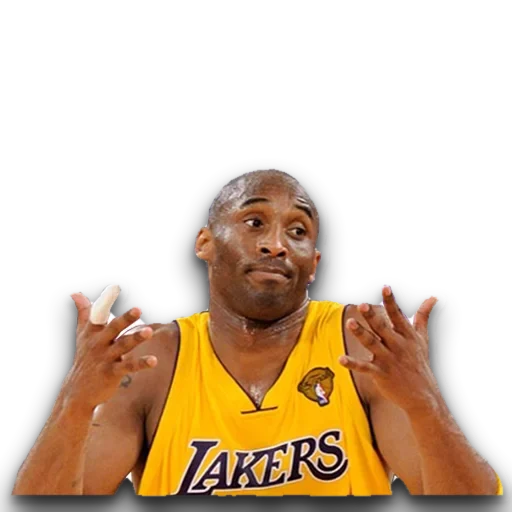
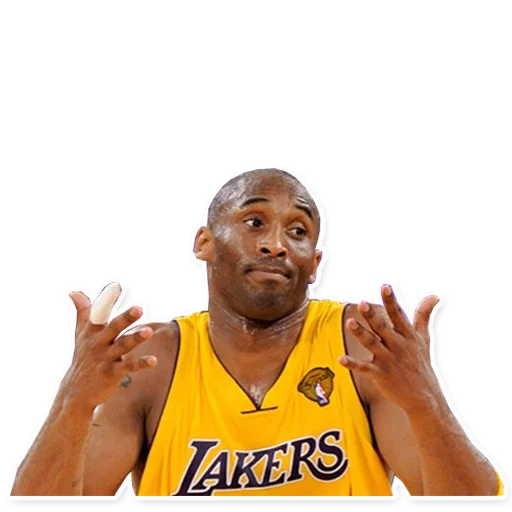
Стикеры-мемы рядом с плашками — оригиналы с белой обводкой; стикер ЗАПОМНИ прилетает через 700 мс после таблички; x₂ = c/a в рамке

diff --git a/components/geometry/WalkthroughLog.tsx b/components/geometry/WalkthroughLog.tsx
@@ -1013,6 +1013,9 @@ export const RememberPlate = ({ title = 'ЗАПОМНИ!', children, sticker: fi
     }, [fixedSticker])
     // sticker='none' — места под стикер нет картинки (пока родитель её выбирает)
     const shown = fixedSticker === 'none' ? null : fixedSticker || sticker
+    // Сначала рисуется табличка, и только через 700 мс справа прилетает стикер (внимание идёт по очереди).
+    const [stickerOn, setStickerOn] = useState(false)
+    useEffect(() => { const t = setTimeout(() => setStickerOn(true), 700); return () => clearTimeout(t) }, [])
     // Золотая рамка (не заливка): заголовок сверху, тело — внутри той же рамки под разделителем.
     return (
         <div className="w-full flex items-center gap-3">
@@ -1029,9 +1032,9 @@ export const RememberPlate = ({ title = 'ЗАПОМНИ!', children, sticker: fi
                 )}
             </div>
             <div className="w-24 h-24 md:w-28 md:h-28 shrink-0 flex items-center justify-center" style={{ transform: (flipSticker ?? autoFlip) ? 'scaleX(-1)' : undefined }}>
-                {shown && (
+                {shown && stickerOn && (
                     <motion.img key={shown} src={shown} alt="" draggable={false}
-                        initial={{ scale: 0.4, opacity: 0, rotate: -12 }} animate={{ scale: 1, opacity: 1, rotate: 0 }}
+                        initial={{ x: 90, scale: 0.4, opacity: 0, rotate: -12 }} animate={{ x: 0, scale: 1, opacity: 1, rotate: 0 }}
                         transition={{ type: 'spring', stiffness: 320, damping: 14 }}
                         className="max-w-full max-h-full object-contain pointer-events-none select-none" />
                 )}

diff --git a/app/t-lesson/[t_lessonId]/type-vietawalk.tsx b/app/t-lesson/[t_lessonId]/type-vietawalk.tsx
@@ -1344,7 +1344,13 @@ const CheckRootScene = ({ spec, onSettled }: SceneProps & { spec: CheckSpec }) =
                         <TypedBig small onDone={next(3)} readMs={1000}
                             parts={[{ text: 'ЕСЛИ ' }, { text: 'x₁ = 1', color: ROOT_COLOR }, { text: ' подойдёт, то' }]} />
                     )}
-                    {phase >= 3 && <BigLine><X2Formula /></BigLine>}
+                    {phase >= 3 && (
+                        <BigLine>
+                            <span className="px-4 py-2 rounded-2xl" style={{ border: '2px solid rgba(232, 182, 54, 0.85)', backgroundColor: 'rgba(232, 182, 54, 0.08)' }}>
+                                <X2Formula />
+                            </span>
+                        </BigLine>
+                    )}
                     {phase >= 3 && <PauseThen ms={1000} onDone={next(4)} />}
                     {phase >= 4 && <TypedBig onDone={next(5)} readMs={300} parts={[{ text: 'И ВСЁ!', color: REMEMBER_COLOR }]} />}
                 </div>

diff --git a/CLAUDE.md b/CLAUDE.md
@@ -32,7 +32,7 @@ ssh root@168.222.192.167 "cd /var/www/ggege && git pull origin main && npm run b
 - **Lottie:** в `<Lottie>` из `@/components/lottie-player`, не из `lottie-react`; JSON из `public/` импортируется как URL (строка). Статические `lottie-react` без `dynamic ssr:false` ломают SSR.
 - **Видео:** прозрачные webm (VP9) Safari не умеет — `components/alpha-video.tsx` (нужен HEVC `.mov`) или обычный mp4.
 - **Звуки:** через `lib/sound.ts` (Web Audio), mp3/m4a, не WAV.
-- **Стикеры:** без белой обводки, с мягкой запечённой тенью (`docs/stickers/tools/soft_shadow.py`); персонажа-гуся Мигеля — `docs/miguel/`. Сундуки — только версии без тени (`public/chests/`).
+- **Стикеры:** без белой обводки, с мягкой запечённой тенью (кроме стикеров-мемов, которые просто стоят рядом с плашкой/текстом — `public/more-memes`, `public/lesson-pics`, `public/remember-stickers`: там оставляем оригинал с белой обводкой, вырезание даёт артефакты; оригиналы лежат в `docs/stickers/white-outline/`) (`docs/stickers/tools/soft_shadow.py`); персонажа-гуся Мигеля — `docs/miguel/`. Сундуки — только версии без тени (`public/chests/`).
 - **Русские окончания:** `declensionRu`; не ставить тире рядом с числами (похоже на минус); «ЕГЭ» в озвучке — строчными «егэ».
 - **Палитра ggege:** `GGEGE_PALETTE` (`src/constants/lessonButtonColors.ts`) — blue/raspberry/green/orange/purple/teal. Роли: фиолетовый — «ищем»/ключевой термин, зелёный — второй ключевой, оранжевый — «внимание», синий — угол/величина. Отдельные системы: верно/неверно (`CORRECT_COLOR`/`WRONG_COLOR`), голубой `#7dd3fc` в статичных SVG-диаграммах, фон `#161F23`.
 - Стиль оформления пока только «Игровой» (`metal`); «Тёплый» (`cozy`) отключён.
@@ -70,7 +70,7 @@ ssh root@168.222.192.167 "cd /var/www/ggege && git pull origin main && npm run b
 5. **Действие вместо объяснения:** ученик сам нажимает, двигает, собирает; мини-игры («нажми объект», «подпиши сам», «собери паззл/формулу кнопками», «выбери подходящий», переключатели с живым результатом). «Дальше» открывается после действия.
 6. **Ответ в тренировке собирается из кнопок** (`FormulaAssemble`: слоты, клик «прилетает», обратный клик возвращает; в `product` порядок множителей не важен), а не выбор из 4 готовых.
 7. **«Пробуй, пока не угадаешь»:** неверный вариант краснеет и блокируется, остальные активны, персистентное зумерское сообщение (`pickWrongTryPhrase`); верный завершает попытку. Ошибки мини-игр в зачёт урока не идут — только итоговая тренировка/квиз.
-8. **Строго по очереди:** ничего не появляется одновременно — текст печатается → пауза → следующий элемент; следующий шаг ждёт конца печати. Картинку не перерисовывать, если можно сменить подсветку.
+8. **Строго по очереди:** ничего не появляется одновременно — текст печатается → пауза → следующий элемент; следующий шаг ждёт конца печати. Картинку не перерисовывать, если можно сменить подсветку. Это касается и стикеров: сначала рисуется плашка/текст, и только через ~700 мс прилетает стикер (`RememberPlate` делает так сам). Никогда не запускать несколько анимаций одновременно.
 9. **Смотрим только на новое:** после нажатия важной кнопки всё выше бледнеет (opacity 0,3); прошлые сцены — `SceneWrapper`, внутри сцены движок бледнит всё до последнего `ack`. В самописных сценах всё, что выше новой мысли (заголовочные строки, списки, кнопка — **целиком**, а не только крупный блок), оборачивать в один контейнер и бледнить после нажатия кнопки-подтверждения (`opacity 0.3` + `grayscale`). Новая сцена подводится к верху экрана (`useSceneFocus`). Сцена целиком влезает в экран телефона 375×812.
 10. **Варианты ответа падают сверху** — класс `drop-in-options` на каждой сетке вариантов; новое задание серии тоже падает. Значения в пропуск «влетают» (spring), активный пустой пропуск — без пульса, переливается только «?».
 11. **Изменилось от действия — видно глазами:** счётчики подпрыгивают (`Bump`), цель мини-игры крупно сверху («Бросков N из 100»).
